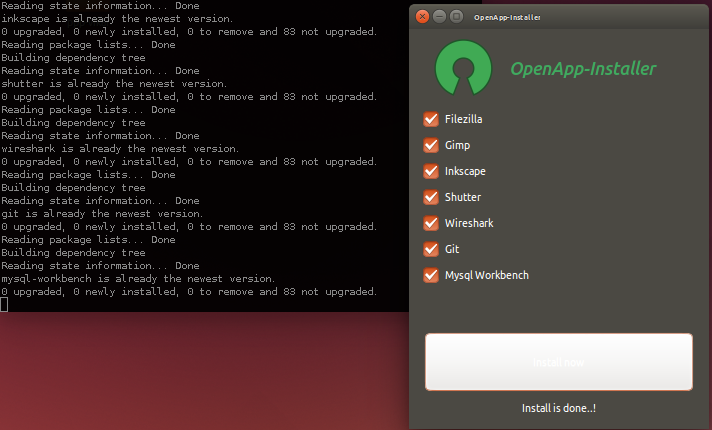
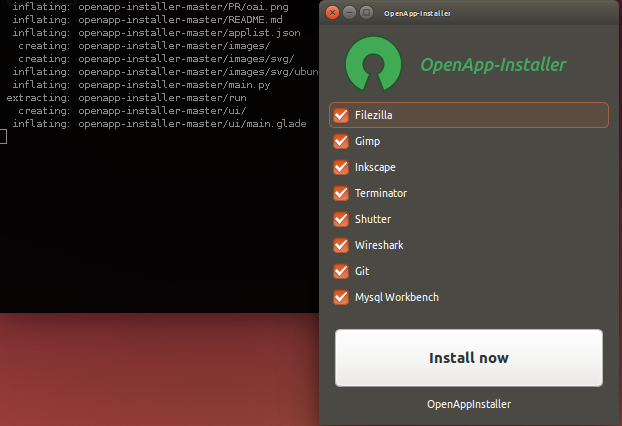
update

Changed region(s): [[0.0, 0.0, 1.0, 1.0], [0.672, 0.8239, 0.8248, 0.8545], [0.3666, 0.9765, 0.3971, 1.0]]

diff --git a/README.md b/README.md
@@ -7,6 +7,7 @@ This is a app-installer. Build on Ubuntu 14.04
 It can install all apps defined in applist.json file.
 
 * Filezilla
+* Terminator
 * Gimp
 * Inkscape
 * Shutter
@@ -16,9 +17,9 @@ It can install all apps defined in applist.json file.
 
 You can now seleted or unselected any of then before beginning the installed.
 
-#OneLine (download & run)
+#OneLine (donload & run)
 ```
-cd ~/tmp && wget https://github.com/voidcode/open-appinstaller/archive/master.zip && unzip master.zip && cd open-appinstaller-master && ./run
+cd $HOME && wget https://github.com/voidcode/openapp-installer/archive/master.zip && unzip master.zip && cd openapp-installer-master && ./run
 ```
 
 #Manuel: Download & run it!
@@ -26,6 +27,6 @@ cd ~/tmp && wget https://github.com/voidcode/open-appinstaller/archive/master.zi
 $ cd ~/tmp
 $ wget https://github.com/voidcode/open-appinstaller/archive/master.zip
 $ unzip master.zip
-$ cd open-appinstaller-master
+$ cd openapp-installer-master
 $ ./run
 ```
